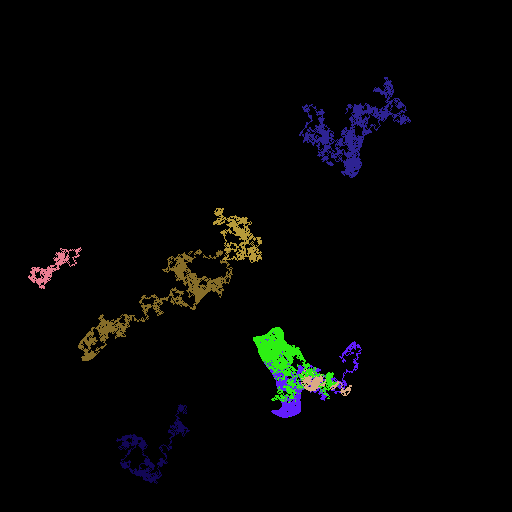
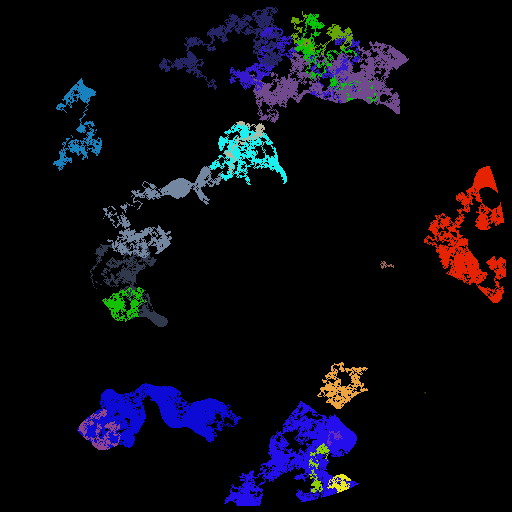
Heroic

diff --git a/roguelike/Faction.h b/roguelike/Faction.h
@@ -9,6 +9,56 @@ class Faction {
 	friend class Hero;
 
 public:
+	std::vector<std::string> prefixes = {
+		"Republic of ",
+		"Federation of ",
+		"Confederation of ",
+		"Union of ",
+		"Democratic Republic of ",
+		"People's Republic of ",
+		"Democratic People's Republic of ",
+		"Nation of ",
+		"State of ",
+		"Democracy of ",
+		"Empire of ",
+		"Collective of ",
+		"United Republic of ",
+		"United States of ",
+		"United Empire of ",
+		"Glorious Republic of ",
+		"Free State of ",
+		"Military Junta of ",
+		"Army of ",
+		"Glorious Empire of ",
+		"Glorious People's Republic of ",
+		"Freedom Fighters of ",
+		"Government of ",
+		"Armed Forces of ",
+		"Dictatorship of ",
+		"Rogue Nation of ",
+		"Rogue State of "
+	};
+	std::vector<std::string> suffixes = {
+		" Republic",
+		" Federation",
+		" Confederation",
+		" Union",
+		" Nation",
+		" State",
+		" Government",
+		" Empire",
+		" Collective",
+		" Free State",
+		" Army",
+		" Armed Forces",
+		" Military Junta",
+		" Dictatorship",
+		" Police State",
+		" Corporatocracy",
+		" Freedom Fighters",
+		" Resistance",
+	};
+	
 	Faction();
 	Faction(int startx, int starty);
 	

diff --git a/roguelike/Game.cpp b/roguelike/Game.cpp
@@ -327,8 +327,6 @@ void Game::startup_new_game() {
 
 	std::cout << "Number of actors: " << Actor::get_buffer()->size() << std::endl;
 
-	new Hero(_player->get_world_pos()[0] - 1, _player->get_world_pos()[1] - 1, Faction::get_factions()[0]);
-
 	_log = new Log;
 	GameObjects::log = _log;
 
@@ -828,14 +826,14 @@ void Game::generate_factions() {
 	std::cout << "Beginning faction simulation!\n";
 	Faction::save_faction_map("Data\\anim\\0.png", _level->get_size());
 
-	for (int i = 0; i < 5000; i++) {
+	for (int i = 0; i < 10000; i++) {
 		for (Faction* f : Faction::get_factions()) {
 			f->simulate();
-			std::cout << i << "/" << 5000 << "\r";
+			std::cout << i << "/" << 10000 << "\r";
 			
 
 			// Update loading screen
-			if (i % 100 == 0) {
+			if (i % 14 == 0) {
 				_loadingscreen->set_text("Simulating the galaxy, turns simulated:" + std::to_string(i) + "/" + std::to_string(10000));
 				TCODConsole::root->flush();
 			}

diff --git a/roguelike/Faction.cpp b/roguelike/Faction.cpp
@@ -14,7 +14,23 @@ Faction::Faction(int startx, int starty) {
 	_capital_tile = Actor::get_actors(startx, starty, 0).back();
 	_owned_tiles.push_back(_capital_tile);
 	_color = TCODColor(Random::randc(0, 255), Random::randc(0, 255), Random::randc(0, 255));
-	_name = TCODNamegen::generate("object");
+	
+	std::string name = TCODNamegen::generate("object");
+	
+	if (Random::coinflip(Random::generator) == 1) {
+		if (Random::one_to_eight(Random::generator) == 1) {
+			name.insert(0, "The ");
+		}
+		name += suffixes[Random::randc(0, suffixes.size() - 1)];
+	}
+	else {
+		if (Random::one_to_eight(Random::generator) == 1) {
+			name.insert(0, " the ");
+		}
+		name.insert(0, prefixes[Random::randc(0, prefixes.size() - 1)]);
+	}
+	
+	_name = name;
 	_fast = true;
 
 	std::cout << "A new nation, " << _name << ", has been founded\n";

diff --git a/roguelike/Hero.cpp b/roguelike/Hero.cpp
@@ -134,7 +134,7 @@ void Hero::simulate(bool fast) {
 				else if (x > dx && y > dy) {
 					move("bottomright");
 				}
-				std::cout << _name << " moved to " << _world_x << " " << _world_y << std::endl;
+//				std::cout << _name << " moved to " << _world_x << " " << _world_y << std::endl;
 			}
 	//	}
 	}

diff --git a/roguelike/GUI.cpp b/roguelike/GUI.cpp
@@ -553,6 +553,7 @@ void Map::update_map(Level* level, bool background) {
 
 	// Display to screen
 
+	_cons->clear();
 	for (int x = 0; x < image.size(); x++) {
 		for (int y = 0; y < image[x].size(); y++) {
 			_cons->putCharEx(x + maparea_x, y + maparea_y, 0, TCODColor::black, image[x][y]);
